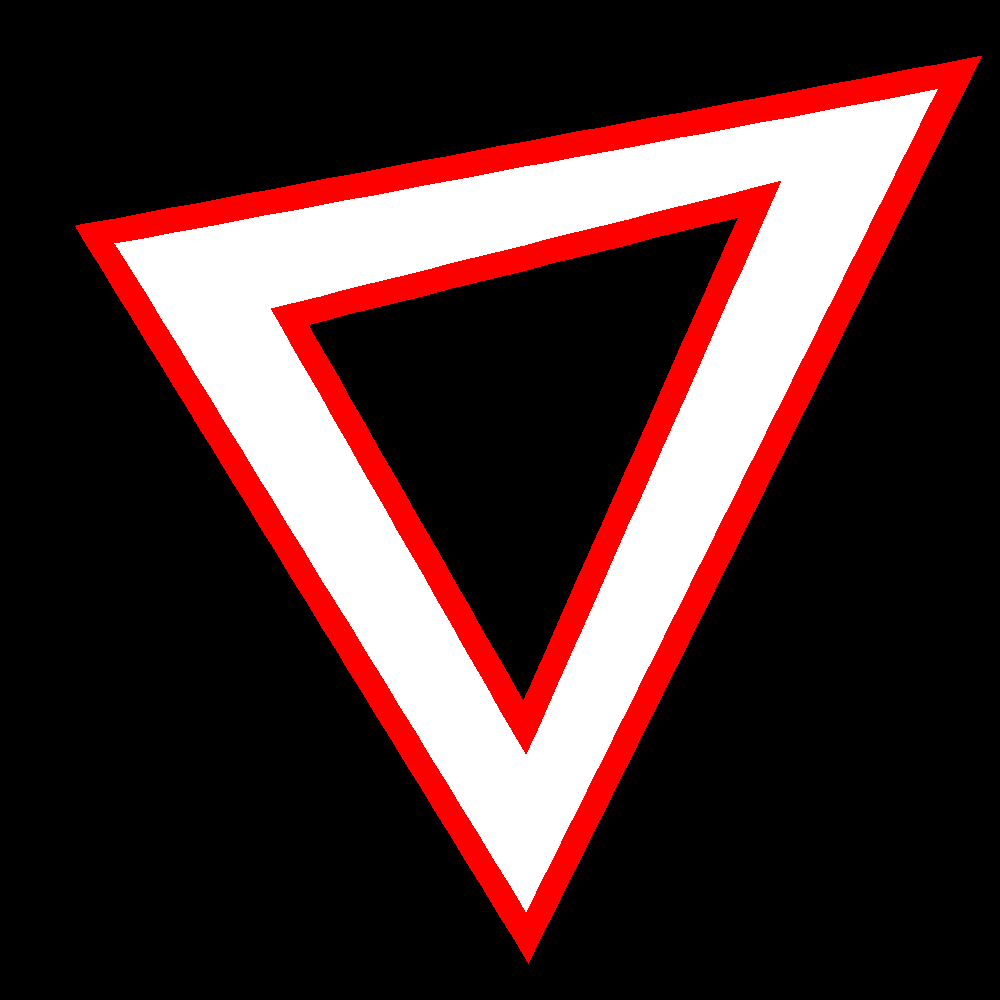
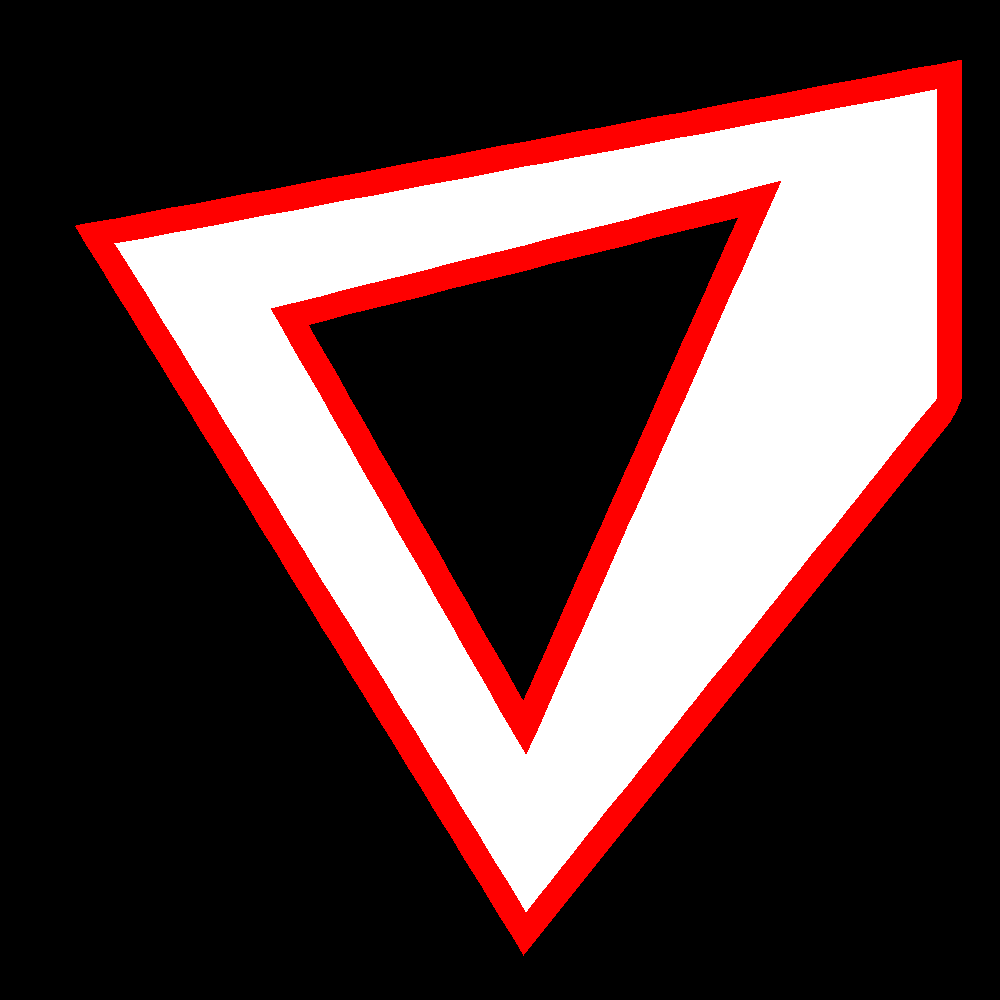
fix bug with multiple segments in a spline

Changed region(s): [[0.527, 0.093, 0.961, 0.899], [0.961, 0.062, 0.992, 0.093], [0.527, 0.93, 0.558, 0.961]]

diff --git a/crates/gen/src/spline.rs b/crates/gen/src/spline.rs
@@ -26,50 +26,45 @@ impl Spline<'_> {
   /// Get a `Distance` object at the point containing the signed distance, the signed pseudo
   /// distance and a measure of orthogonality.
   pub fn distance_to(&self, point: Point) -> Distance {
-    // find the segment with the smallest pseudo distance to the point
+    // find the segment with the smallest distance to the point.
     let mut selected_segment = 0;
     let mut selected_t = self.segments[0].closest_param_t(point);
-    let mut selected_signed_pseudo_distance = self.segments[0].distance_to_point_at_t(point, selected_t);
+    let mut selected_distance = self.segments[0]
+      .distance_to_point_at_t(point, selected_t)
+      .abs();
     for (s, segment) in self.segments.iter().enumerate().skip(1) {
       let t = segment.closest_param_t(point);
-      let signed_pseudo_distance = segment.distance_to_point_at_t(point, t);
+      let distance = segment.distance_to_point_at_t(point, t).abs();
 
-      if signed_pseudo_distance.abs() < selected_signed_pseudo_distance.abs() {
+      if distance < selected_distance {
         selected_t = t;
-        selected_signed_pseudo_distance = signed_pseudo_distance;
+        selected_distance = distance;
         selected_segment = s;
       }
     }
 
-    // if the t value lays outside the interval [0, 1] then we need clamp it to get the distance.
-    if selected_t < 0.0 {
-      Distance {
-        distance: self.segments[selected_segment]
-          .distance_to_point_at_t(point, 0.0)
-          .abs(),
-        signed_pseudo_distance: selected_signed_pseudo_distance,
-        orthogonality: orthogonality(
-          self.segments[selected_segment].extension_start(),
-          Vector::from_points(self.segments[selected_segment].start(), point),
-        ),
-      }
+    // the measure of orthogonality depends on the end of the spline the point is nearest.
+    let orthogonality = if selected_t < 0.0 {
+      orthogonality(
+        self.segments[selected_segment].extension_start(),
+        Vector::from_points(self.segments[selected_segment].start(), point),
+      )
     } else if selected_t > 1.0 {
-      Distance {
-        distance: self.segments[selected_segment]
-          .distance_to_point_at_t(point, 1.0)
-          .abs(),
-        signed_pseudo_distance: selected_signed_pseudo_distance,
-        orthogonality: orthogonality(
-          self.segments[selected_segment].extension_end(),
-          Vector::from_points(self.segments[selected_segment].end(), point),
-        ),
-      }
+      orthogonality(
+        self.segments[selected_segment].extension_end(),
+        Vector::from_points(self.segments[selected_segment].end(), point),
+      )
     } else {
-      Distance {
-        distance: selected_signed_pseudo_distance.abs(),
-        signed_pseudo_distance: selected_signed_pseudo_distance,
-        orthogonality: 1.0, // we don't care about orthogonality in this case
-      }
+      1.0
+    };
+
+    let signed_pseudo_distance =
+      self.segments[selected_segment].signed_pseudo_distance_to_point_at_t(point, selected_t);
+
+    Distance {
+      distance: selected_distance,
+      signed_pseudo_distance,
+      orthogonality,
     }
   }
 }

diff --git a/crates/gen/src/segment.rs b/crates/gen/src/segment.rs
@@ -41,26 +41,32 @@ impl Segment {
     }
   }
 
-  /// Distance between some point `P` and the segment at time `t`.
+  /// Distance between some point `P` and the segment at time `t`. `t` is clamped to [0, 1];
   #[inline]
   pub fn distance_to_point_at_t(&self, point: Point, t: f32) -> f32 {
+    let t = t.clamp(0., 1.);
+
     match *self {
       Line { start, end } => {
-        let sign = self.sign_at_point(point);
-
-        Vector::from_points(start + (t * Vector::from_points(start, end)), point).abs().copysign(sign)
+        Vector::from_points(start + (t * Vector::from_points(start, end)), point).abs()
       },
       _ => unimplemented!(),
     }
   }
 
   #[inline]
-  pub fn sign_at_point(&self, point: Point) -> f32 {
+  pub fn signed_pseudo_distance_to_point_at_t(&self, point: Point, t: f32) -> f32 {
     match *self {
       Line { start, end } => {
-        let a = Vector::from_points(start, end);
-        let b = Vector::from_points(start, point);
-        1f32.copysign(a.signed_area(b))
+        let signed_area = {
+          let a = Vector::from_points(start, end);
+          let b = Vector::from_points(start, point);
+          a.signed_area(b)
+        };
+
+        Vector::from_points(start + (t * Vector::from_points(start, end)), point)
+          .abs()
+          .copysign(signed_area)
       },
       _ => unimplemented!(),
     }

diff --git a/crates/gen/examples/gen.rs b/crates/gen/examples/gen.rs
@@ -10,15 +10,24 @@ fn main() {
   let contour_1 = {
     let point_a = Point { x: 14.0, y: 14.0 };
     let point_b = Point { x: 46.0, y: 8.0 };
+    let point_bb = Point { x: 46.0, y: 20.0 };
     let point_c = Point { x: 30.0, y: 40.0 };
 
     let line_ab = Line {
       start: point_a,
       end: point_b,
     };
-    let line_bc = Line {
+    // let line_bc = Line {
+    //   start: point_b,
+    //   end: point_c,
+    // };
+    let line_bb = Line {
       start: point_b,
-      end: point_c,
+      end: point_bb,
+    };
+    let line_bbc = Line {
+      start: point_bb,
+      end: point_c
     };
     let line_ca = Line {
       start: point_c,
@@ -30,8 +39,8 @@ fn main() {
     let channels_ca: Channels = 0b011.into();
 
     Contour {
-      segments: vec![line_ab, line_bc, line_ca],
-      corners: Some(vec![0, 1, 2]),
+      segments: vec![line_ab, line_bb, line_bbc, line_ca],
+      corners: Some(vec![0, 1, 3]),
       channels: Some(vec![channels_ab, channels_bc, channels_ca]),
     }
   };
